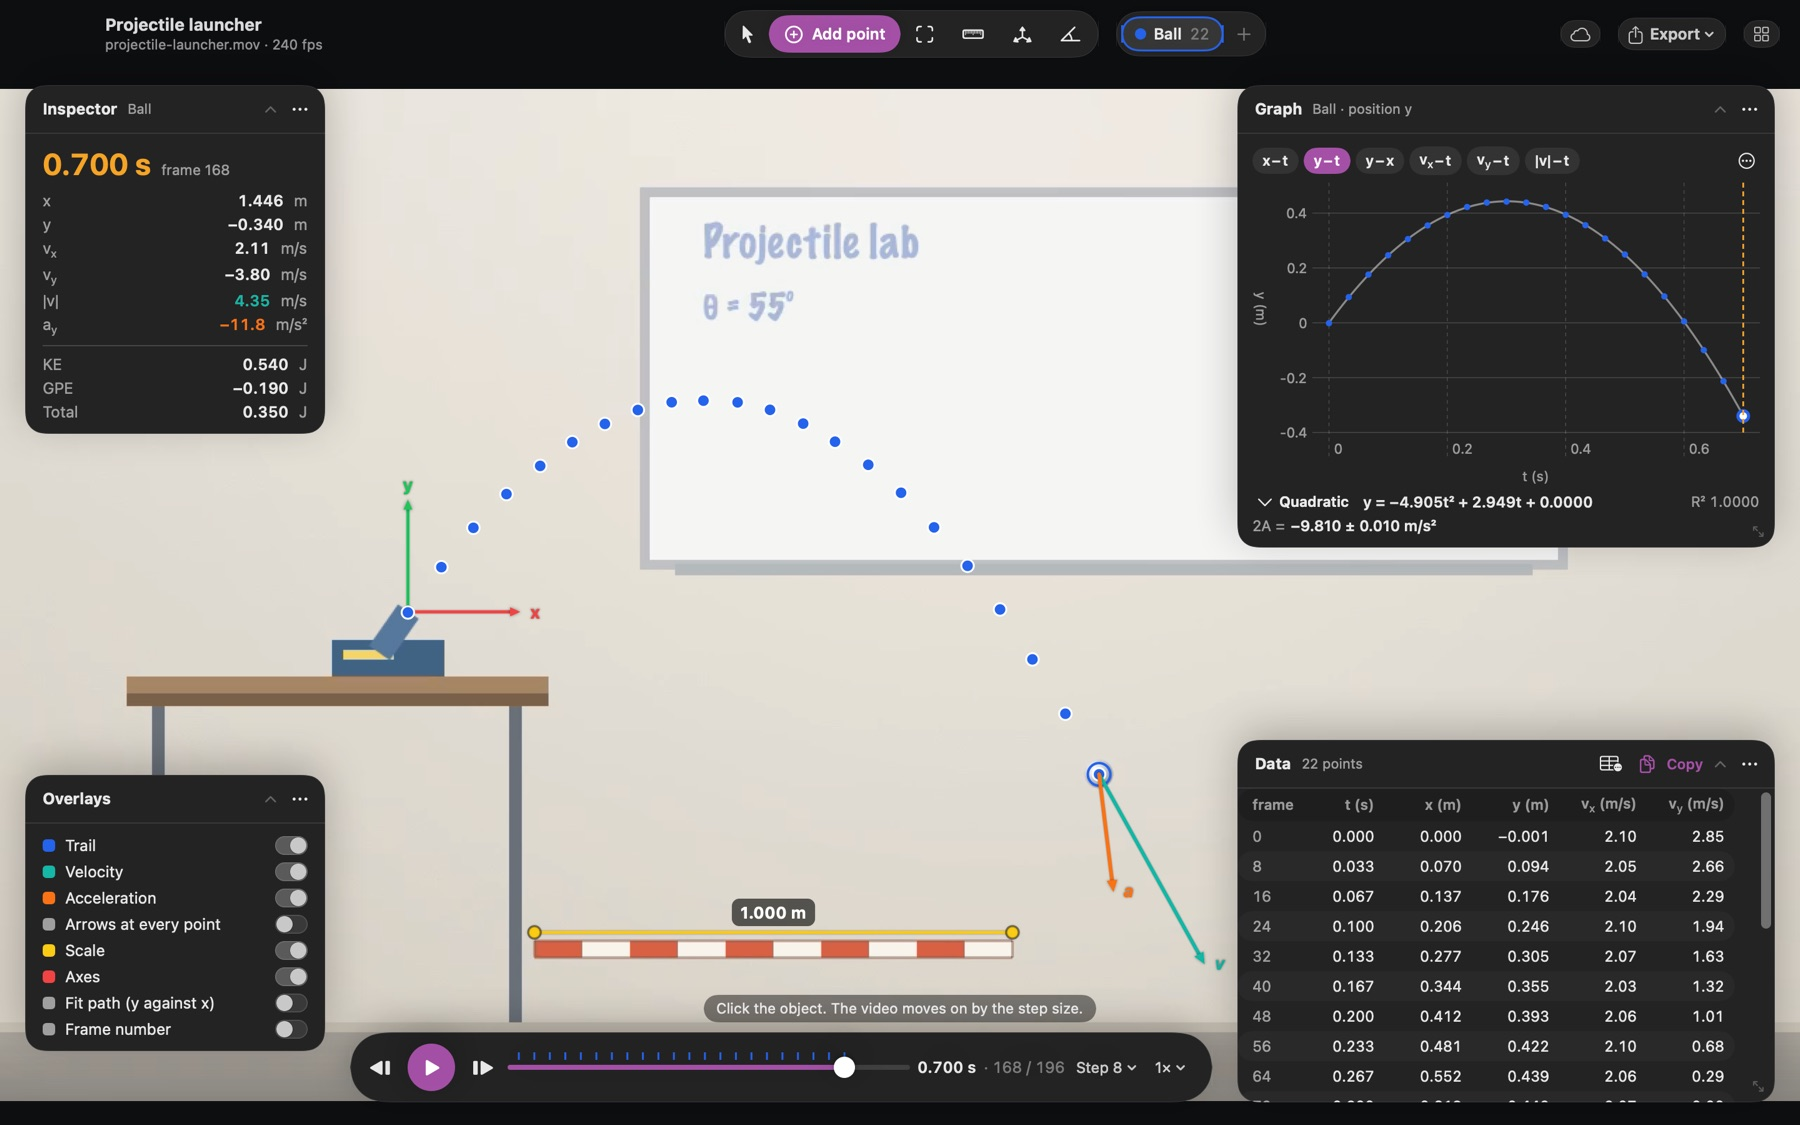
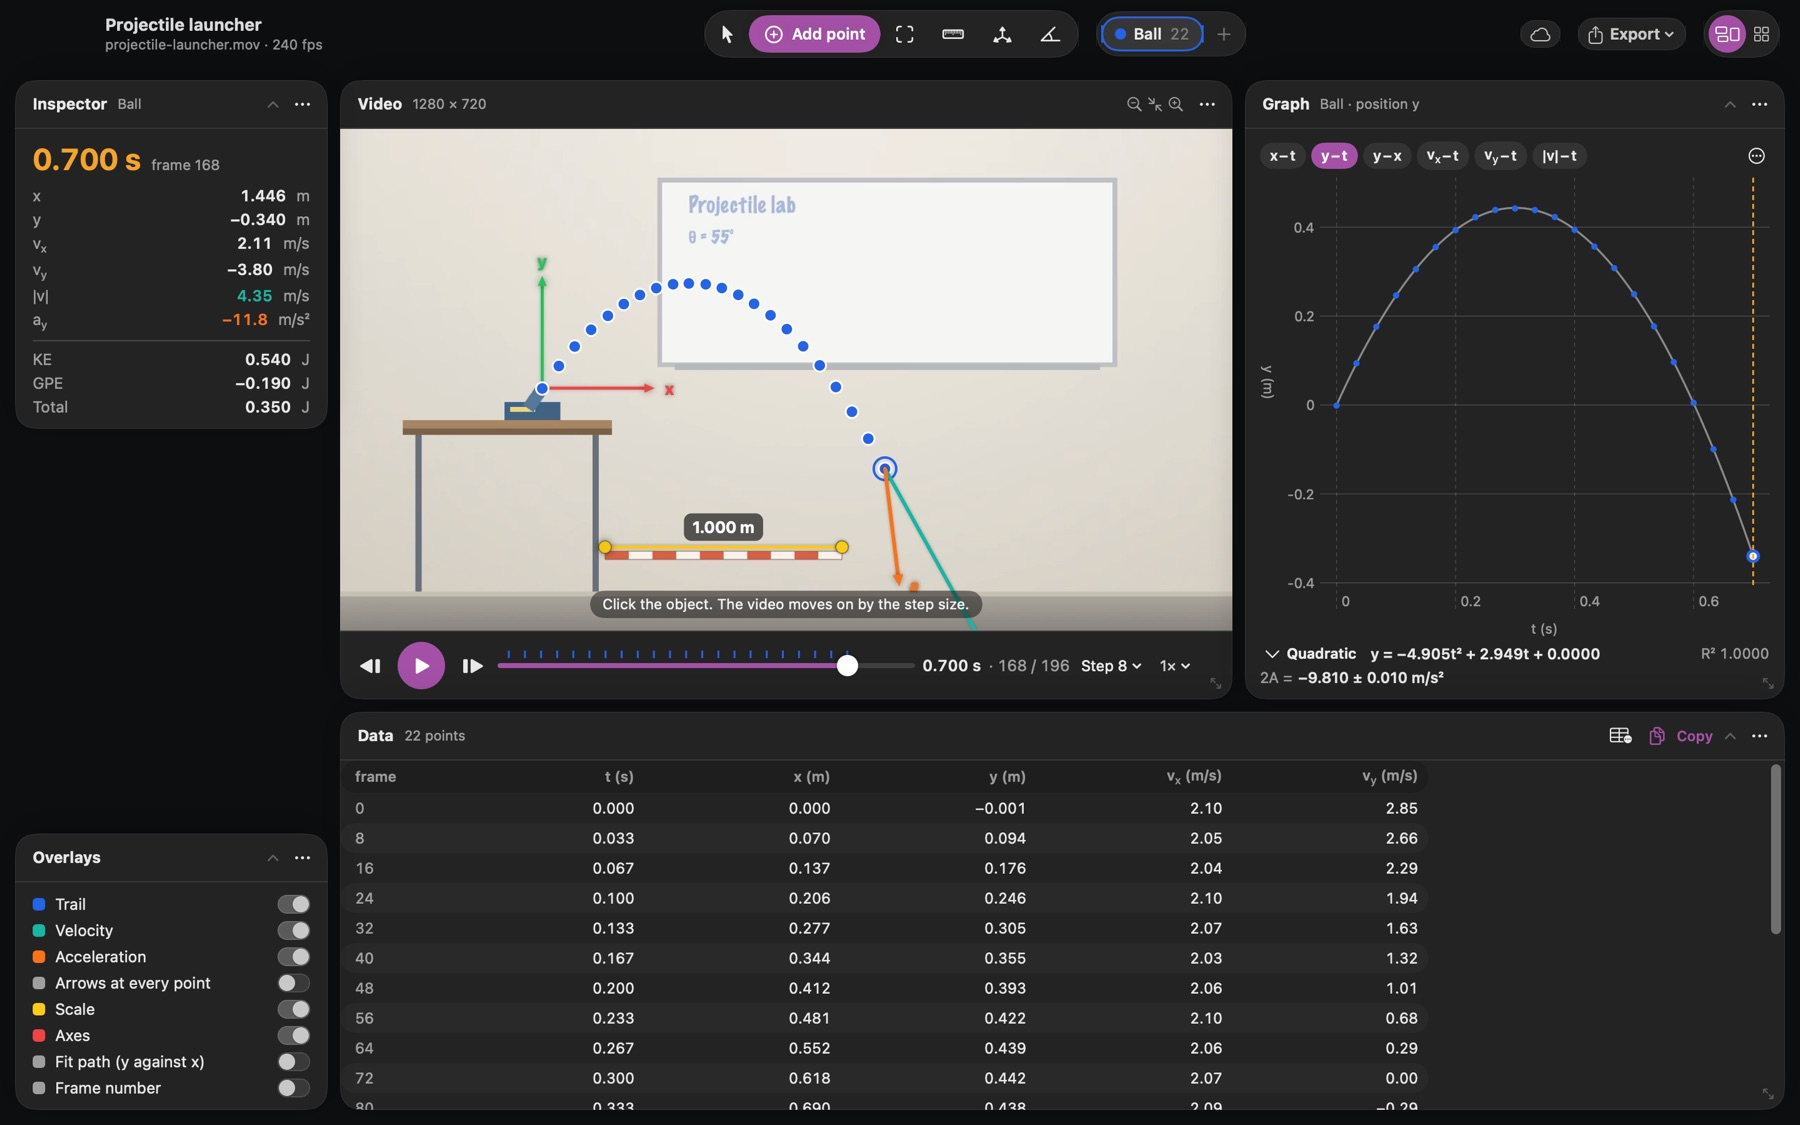
Publish Strobe 1.0.1

diff --git a/apps/strobe/readme.html b/apps/strobe/readme.html
@@ -112,7 +112,7 @@ ol.rm .n{flex:none;width:24px;height:24px;border-radius:12px;display:grid;place-
 <main class="page readme">
   <div class="rmtop"><a class="back" href="./">&#8249; Strobe</a><a href="../../readme/strobe.txt">Plain text</a></div>
   <header class="rmhead"><img class="icon" src="../../icons/strobe.png" alt="" width="64" height="64">
-    <div><h1>Read Me</h1><p>Strobe 1.0.0 · how to install and use it</p></div>
+    <div><h1>Read Me</h1><p>Strobe 1.0.1 · how to install and use it</p></div>
   </header>
   <p class="lead">Video motion analysis for physics labs. Open a video of something moving, set the scale and the axes, click the object on each frame (or let Strobe track it), and get position, velocity and acceleration as a table and graphs, with fits, uncertainties and a strobe picture for worksheets.</p>
 <h2>What's in this folder</h2>
@@ -123,7 +123,7 @@ ol.rm .n{flex:none;width:24px;height:24px;border-radius:12px;display:grid;place-
 <ol class="rm"><li><span class="n">1</span><div><p>Double-click <b>Install Strobe.command</b>.</p><p>If macOS says it can't be opened (<b>Apple could not verify…</b>): click Done, open System Settings → Privacy &amp; Security, scroll down and click <b>Open Anyway</b>, then double-click the installer again.</p><p>Or open Terminal, type <code>bash</code> followed by a space, drag <b>Install Strobe.command</b> into the Terminal window, and press Return.</p></div></li><li><span class="n">2</span><div><p>The installer moves Strobe into Applications and opens it.</p></div></li></ol>
 <p>Prefer to do it by hand? Drag Strobe into Applications and open it. The first time, macOS blocks it: go to System Settings → Privacy &amp; Security and click <b>Open Anyway</b>.</p>
 <h2>Using Strobe</h2>
-<ul class="rm"><li><b>Start:</b> open a video (or drag one onto Strobe's icon), File → Open from Photos (slow motion opens at its full frame rate), or try a sample. Strobe reads each frame's own time from the file, so there's no frame rate to type in.</li><li>1. Scale (S): drag along something you know the length of, such as a metre stick, and type its length (1 m, 50 cm, 1.000 ± 0.002 m).</li><li>2. Axes (X): click the origin, drag to turn the x axis.</li><li>3. Track: Add point (A) — click the object on each frame; clicks snap to its centre (hold Option to place a point exactly). Auto-track (T) — draw a box round the object; check any hollow points it isn't sure of.</li><li><b>Edit (E):</b> drag points, the scale's ends or the origin. Delete removes the selected point. Command-Z undoes anything.</li><li><b>Panels float over the video:</b> Inspector, Graph, Data, Overlays, Objects, Collision and Custom Table (View menu). Tab hides them all.</li><li><b>Graph:</b> pick what to plot, drag across it to choose a range, then pick a fit. Turn on error bars and max/min gradient lines in its … menu.</li><li>Give objects a mass for energy and momentum; track two objects for the Collision panel.</li><li><b>Export:</b> data as CSV, Copy Data (Shift-Command-C) to paste into Google Sheets or Excel, graph pictures, a strobe-picture worksheet with an answer key, and a movie with the arrows drawn in.</li><li>Projects are .strobe files with the video inside. Save to Google Drive (Option-Command-S) puts them in a Strobe folder in your Drive; Open from Google Drive opens them on any Mac or iPhone. Sign in from Settings. Strobe only sees the files it saves and the ones you pick.</li><li>Opening from Photos asks for access to your Photos library.</li></ul>
+<ul class="rm"><li><b>Start:</b> open a video (or drag one onto Strobe's icon), File → Open from Photos (slow motion opens at its full frame rate), or try a sample. Strobe reads each frame's own time from the file, so there's no frame rate to type in.</li><li>1. Scale (S): drag along something you know the length of, such as a metre stick, and type its length (1 m, 50 cm, 1.000 ± 0.002 m).</li><li>2. Axes (X): click the origin, drag to turn the x axis.</li><li>3. Track: Add point (A) — click the object on each frame; clicks snap to its centre (hold Option to place a point exactly). Auto-track (T) — draw a box round the object; check any hollow points it isn't sure of.</li><li><b>Edit (E):</b> drag points, the scale's ends or the origin. Delete removes the selected point. Command-Z undoes anything.</li><li>Everything is a floating panel, the video too: drag one by its title bar, resize it from its corner, and show or hide panels in the View menu. Auto Arrange (Option-Command-A, or the button beside the panels menu) puts each one in a recommended place and keeps them tidy as the window changes size, until you move one yourself. Tab hides all the panels so the video fills the window.</li><li><b>Graph:</b> pick what to plot, drag across it to choose a range, then pick a fit. Turn on error bars and max/min gradient lines in its … menu.</li><li>Give objects a mass for energy and momentum; track two objects for the Collision panel.</li><li><b>Export:</b> data as CSV, Copy Data (Shift-Command-C) to paste into Google Sheets or Excel, graph pictures, a strobe-picture worksheet with an answer key, and a movie with the arrows drawn in.</li><li>Projects are .strobe files with the video inside. Save to Google Drive (Option-Command-S) puts them in a Strobe folder in your Drive; Open from Google Drive opens them on any Mac or iPhone. Sign in from Settings. Strobe only sees the files it saves and the ones you pick.</li><li>Opening from Photos asks for access to your Photos library.</li></ul>
 <h2>Good to know</h2>
 <ul class="rm"><li><b>To update:</b> Strobe → Check for Updates…, or unzip a newer copy and run its installer. It replaces the old one and keeps your settings.</li><li><b>To uninstall:</b> quit Strobe and drag it from Applications to the Trash.</li><li>Strobe is free and open source (MIT), an open-source alternative to video-analysis tools such as Vernier Video Analysis and Tracker, and not affiliated with either. It isn't from the App Store and isn't notarized by Apple, which is why macOS asks you to confirm it the first time.</li></ul>
 

diff --git a/apps/strobe/index.html b/apps/strobe/index.html
@@ -115,11 +115,11 @@ ol.rm .n{flex:none;width:24px;height:24px;border-radius:12px;display:grid;place-
     <div><h1>Strobe</h1>
     <p class="sum">Open a video of something moving, set the scale and the axes, and click the object on each frame, or draw a box round it and let Strobe track it. You get position, velocity and acceleration in a table and on graphs, with fits, uncertainties and max/min gradient lines, energy and momentum for collisions, and a strobe-picture worksheet with an answer key. Slow motion from Photos opens at its full frame rate. Projects are .strobe files with the video inside, kept on your Mac or in your Google Drive.</p>
     <p class="alt">An alternative to Vernier Video Analysis and Tracker.</p>
-    <div class="acts"><a class="btn primary big" href="https://github.com/explainsims/store/releases/download/strobe-1.0.0/Strobe-1.0.0.zip">Download</a><small>1.0.0 · 5 MB · free</small><a href="#feedback"><svg width="14" height="14" viewBox="0 0 15 15" fill="none" stroke="currentColor" stroke-width="1.4" stroke-linejoin="round" aria-hidden="true"><path d="M2.2 3.6c0-.9.7-1.6 1.6-1.6h7.4c.9 0 1.6.7 1.6 1.6v5.2c0 .9-.7 1.6-1.6 1.6H6.4L3.6 12.8v-2.4c-.8 0-1.4-.7-1.4-1.6z"/></svg>Send Feedback</a></div>
+    <div class="acts"><a class="btn primary big" href="https://github.com/explainsims/store/releases/download/strobe-1.0.1/Strobe-1.0.1.zip">Download</a><small>1.0.1 · 5 MB · free</small><a href="#feedback"><svg width="14" height="14" viewBox="0 0 15 15" fill="none" stroke="currentColor" stroke-width="1.4" stroke-linejoin="round" aria-hidden="true"><path d="M2.2 3.6c0-.9.7-1.6 1.6-1.6h7.4c.9 0 1.6.7 1.6 1.6v5.2c0 .9-.7 1.6-1.6 1.6H6.4L3.6 12.8v-2.4c-.8 0-1.4-.7-1.4-1.6z"/></svg>Send Feedback</a></div>
     <p class="tip">Or get <a href="../../apps/storefront/">Storefront</a>: it installs Strobe in one click, skips the Open Anyway step, and keeps it up to date.</p></div>
   </header>
   <section class="facts" aria-label="Facts">
-    <div><small>Version</small><b>1.0.0</b><i>latest</i></div>
+    <div><small>Version</small><b>1.0.1</b><i>latest</i></div>
     <div><small>Size</small><b>5 MB</b><i>download</i></div>
     <div><small>Needs</small><b>macOS 14</b><i>or later</i></div>
     <div><small>Chip</small><b>Any Mac</b><i>Apple silicon and Intel</i></div>
@@ -131,7 +131,7 @@ ol.rm .n{flex:none;width:24px;height:24px;border-radius:12px;display:grid;place-
 </section>
 <dialog class="lightbox" aria-label="Screenshot"><img alt=""><button type="button" class="lb prev" aria-label="Previous">&#8249;</button><button type="button" class="lb next" aria-label="Next">&#8250;</button><button type="button" class="lb x" aria-label="Close">&times;</button></dialog>
   <section class="cols">
-    <div><h2>What's new in 1.0.0</h2><p class="alt">Released 14 November 2026.</p></div>
+    <div><h2>What's new in 1.0.1</h2><ul><li>The video is a floating panel too: drag it by its title bar, resize it from its corner, and its play bar and zoom buttons go with it.</li><li>Auto Arrange (Option-Command-A, or the new toolbar button) puts every panel in a recommended place with nothing overlapping, and keeps them tidy as the window changes size until you move one yourself. Where you put them is saved with the project.</li><li>Tab hides the other panels so the video fills the window, and the Data table spreads out to fill a wide panel.</li></ul></div>
     <div><h2>Good to know</h2><dl class="kv"><dt>Internet</dt><dd>Only for Google Drive, if you sign in, and for update checks</dd><dt>Licence</dt><dd>MIT</dd><dt>Read Me</dt><dd><a href="readme.html">How to use Strobe</a></dd><dt>Privacy</dt><dd><a href="privacy.html">What Strobe keeps and sends</a></dd><dt>First open</dt><dd>macOS asks you to allow it once, under System Settings › Privacy &amp; Security › Open Anyway. Apps installed through Storefront skip that.</dd></dl></div>
   </section>
   <section class="fbcard" id="feedback"><div class="fbtop"><h2>Send feedback about Strobe</h2><span class="priv"><svg width="12" height="12" viewBox="0 0 12 12" fill="none" stroke="currentColor" stroke-width="1.5" aria-hidden="true"><rect x="2" y="5.2" width="8" height="5.6" rx="1.4"/><path d="M3.8 5.2V3.8a2.2 2.2 0 0 1 4.4 0v1.4"/></svg>Private and anonymous</span></div>

diff --git a/index.html b/index.html
@@ -162,8 +162,8 @@ ol.rm .n{flex:none;width:24px;height:24px;border-radius:12px;display:grid;place-
   <div class="t"><h3><a class="cover" href="apps/smartcut/">SmartCut</a></h3><p class="tag">Hold ⌘ to see every shortcut in the app you're using.</p><small>1.0.2 · 2.1 MB</small></div>
   <a class="btn get" href="https://github.com/explainsims/store/releases/download/smartcut-1.0.2/SmartCut-1.0.2.zip" aria-label="Download SmartCut">Download</a></article>
 <article class="app" id="strobe" data-kind="tools" data-text="strobe track motion in a video, then graph it and fit it. open a video of something moving, set the scale and the axes, and click the object on each frame, or draw a box round it and let strobe track it. you get position, velocity and acceleration in a table and on graphs, with fits, uncertainties and max/min gradient lines, energy and momentum for collisions, and a strobe-picture worksheet with an answer key. slow motion from photos opens at its full frame rate. projects are .strobe files with the video inside, kept on your mac or in your google drive. vernier video analysis and tracker tools"><img class="icon" src="icons/strobe.png" alt="" width="64" height="64" loading="lazy">
-  <div class="t"><h3><a class="cover" href="apps/strobe/">Strobe</a></h3><p class="tag">Track motion in a video, then graph it and fit it.</p><small>1.0.0 · 5 MB</small></div>
-  <a class="btn get" href="https://github.com/explainsims/store/releases/download/strobe-1.0.0/Strobe-1.0.0.zip" aria-label="Download Strobe">Download</a></article>
+  <div class="t"><h3><a class="cover" href="apps/strobe/">Strobe</a></h3><p class="tag">Track motion in a video, then graph it and fit it.</p><small>1.0.1 · 5 MB</small></div>
+  <a class="btn get" href="https://github.com/explainsims/store/releases/download/strobe-1.0.1/Strobe-1.0.1.zip" aria-label="Download Strobe">Download</a></article>
 <article class="app" id="throw" data-kind="menubar" data-text="throw airplay to tvs from the menu bar, then arrange them. connect to nearby tvs, and to apple tvs over direct wi-fi where the network keeps them apart, as a mirror, an extra screen or a window. drag the tv around an arrangement map, pick a resolution, and remember each room.  menu bar"><img class="icon" src="icons/throw.png" alt="" width="64" height="64" loading="lazy">
   <div class="t"><h3><a class="cover" href="apps/throw/">Throw</a></h3><p class="tag">AirPlay to TVs from the menu bar, then arrange them.</p><small>1.1.0 · 3.2 MB</small></div>
   <a class="btn get" href="https://github.com/explainsims/store/releases/download/throw-1.1.0/Throw-1.1.0.zip" aria-label="Download Throw">Download</a></article>
